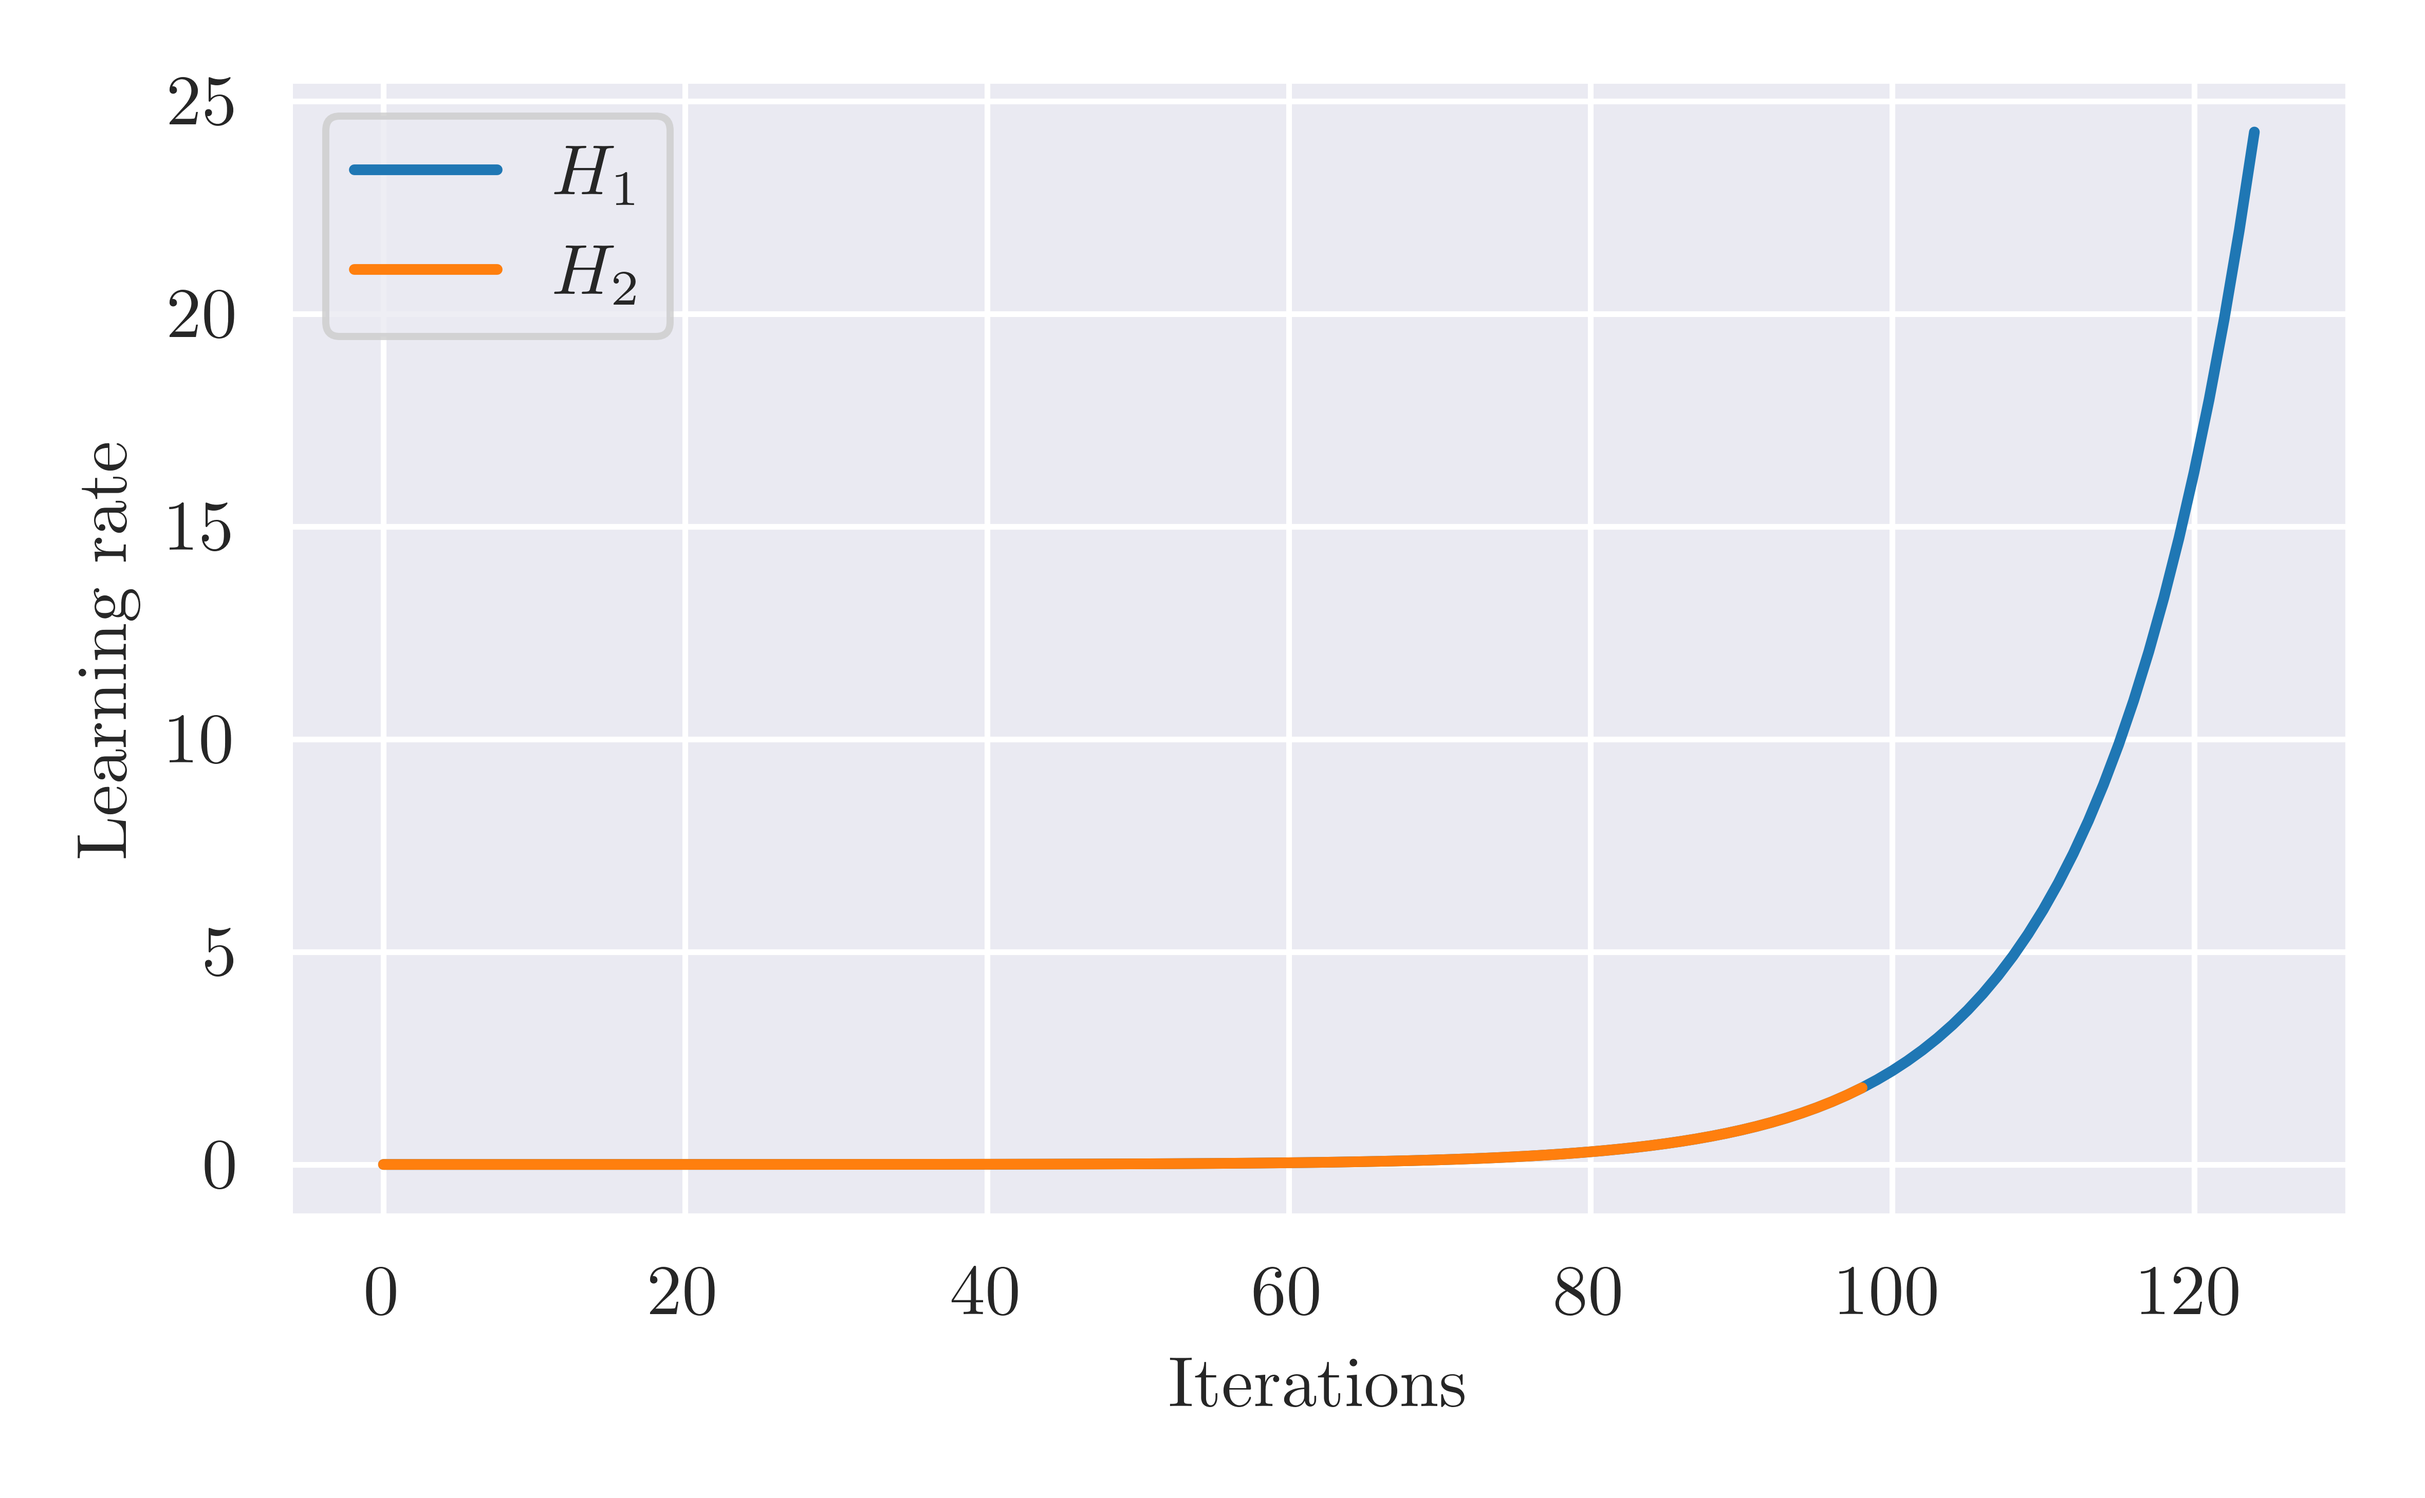
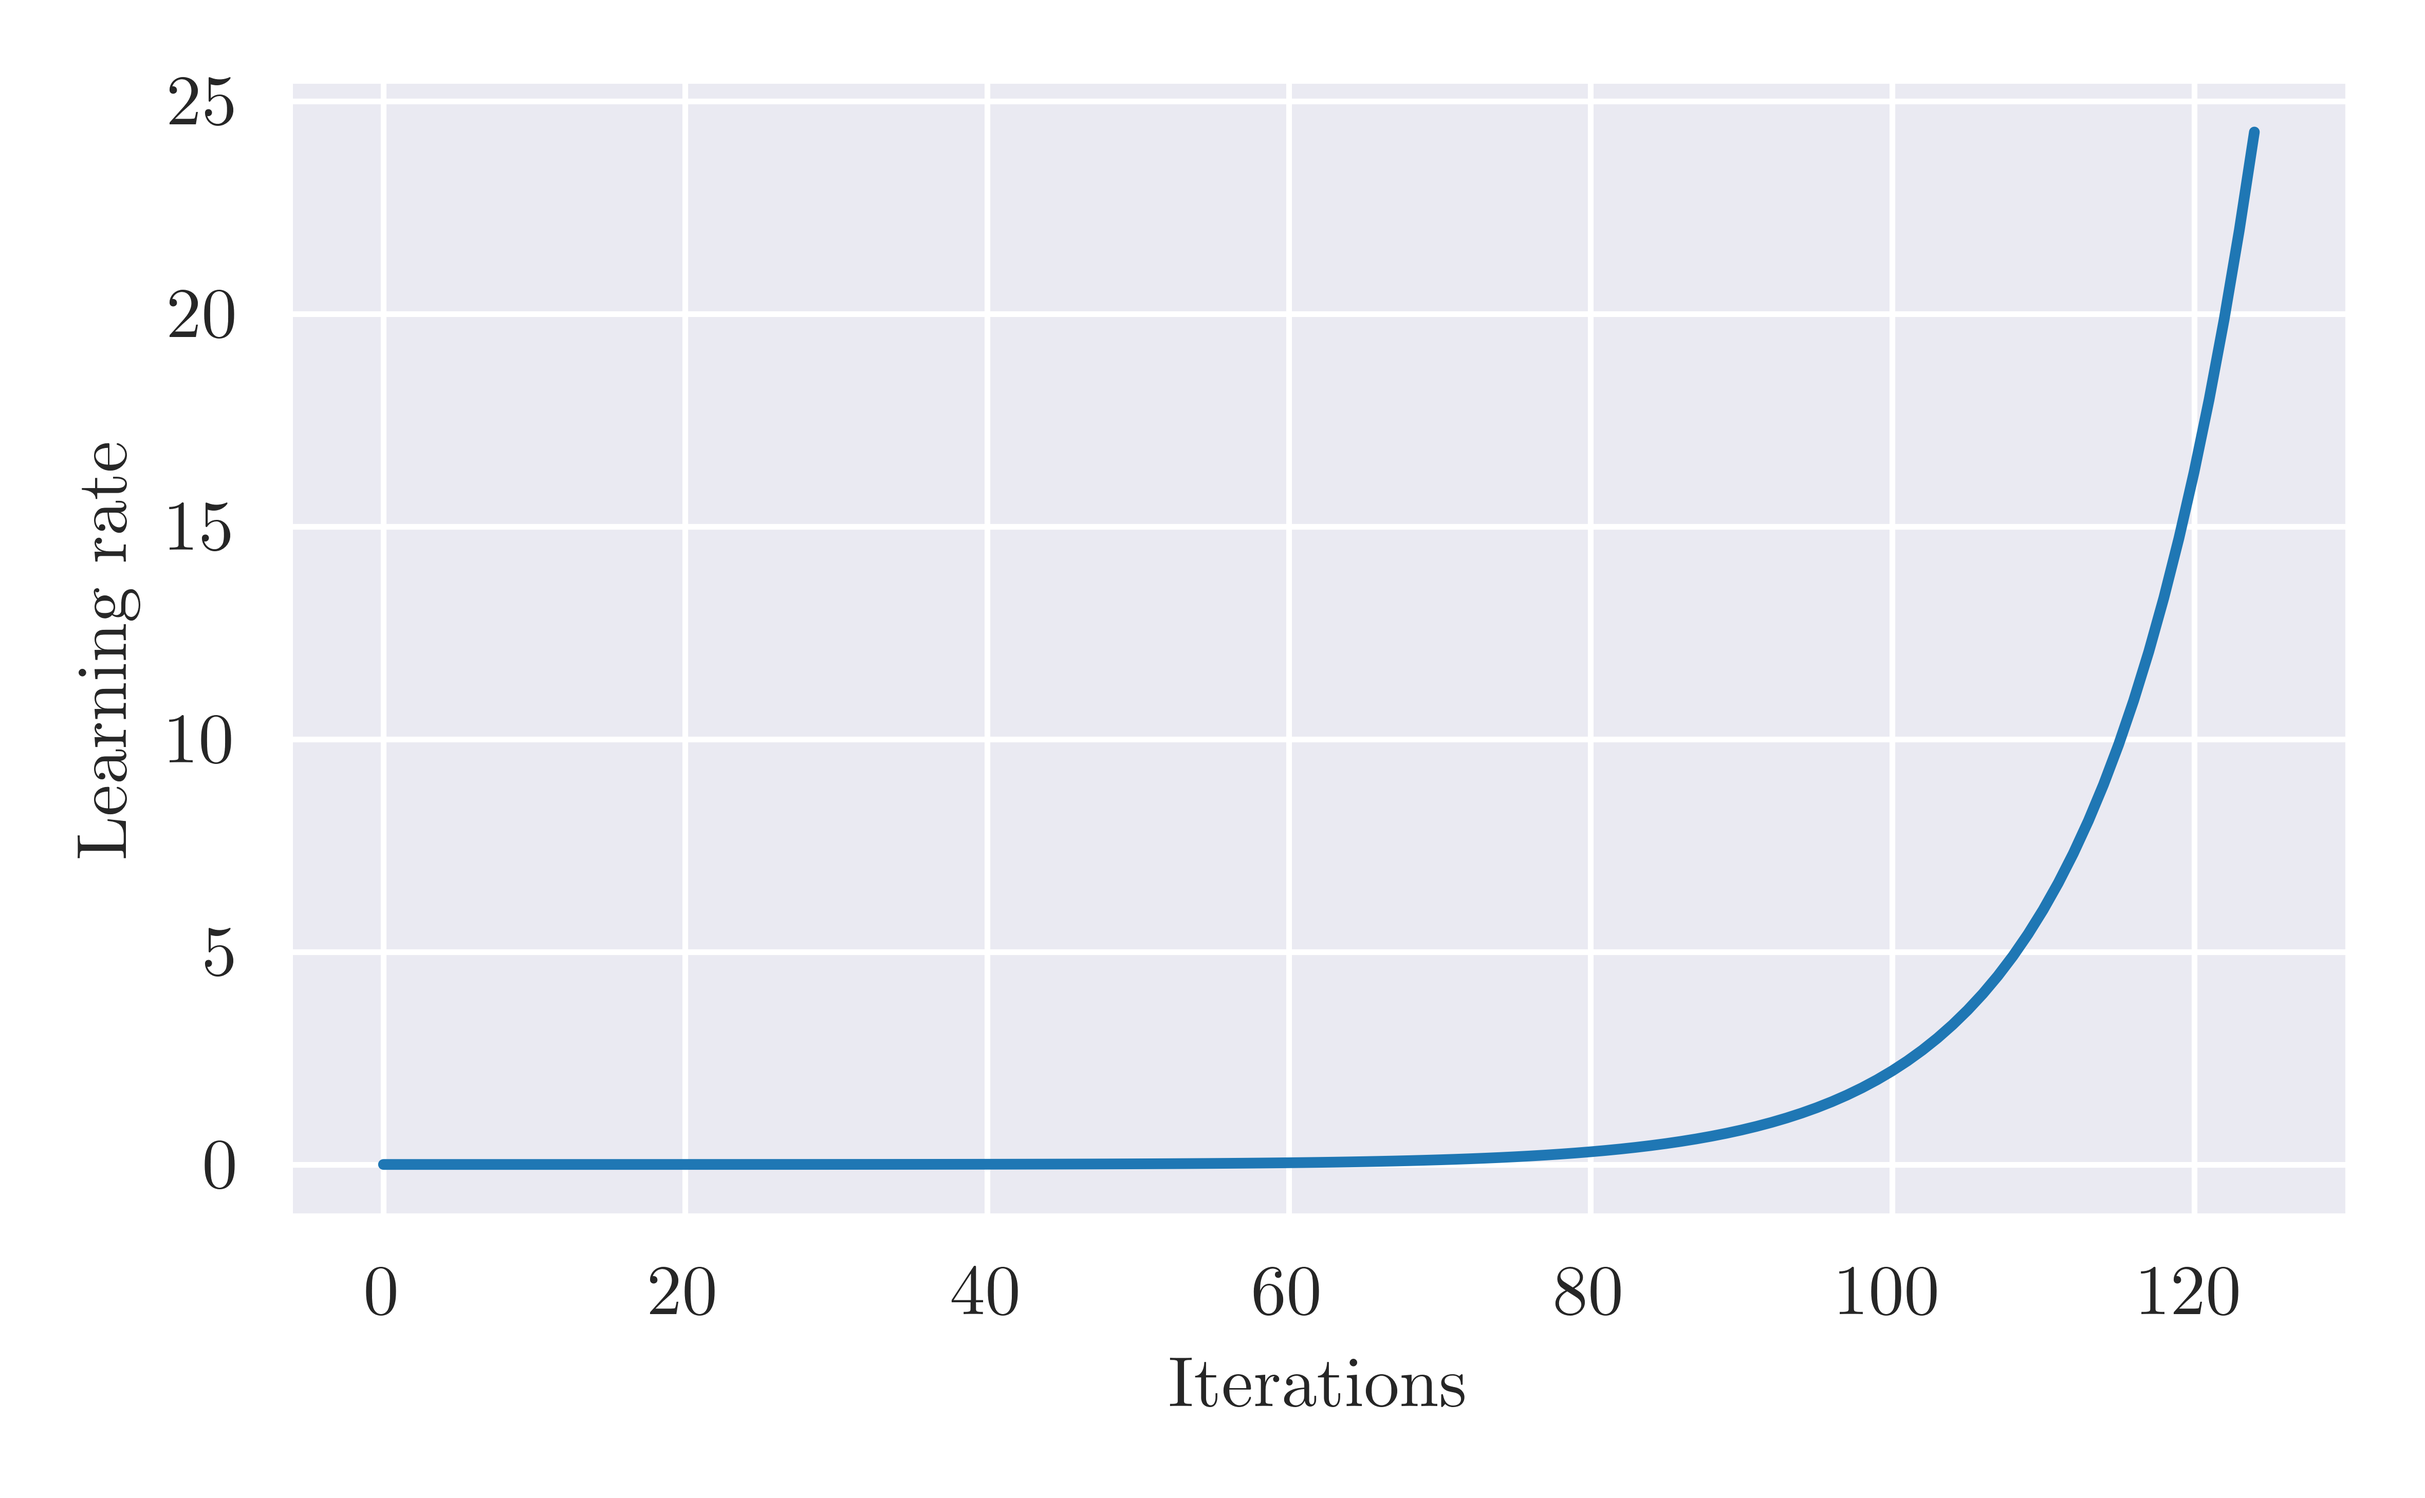
Lets go lets go

Changed region(s): [[0.1246, 0.0624, 0.2804, 0.2497], [0.1558, 0.7178, 0.7788, 0.7802]]

diff --git a/src/analyzer.py b/src/analyzer.py
@@ -99,19 +99,45 @@ def plot_lr_search():
 
     #print(lr)
     #print(lr_A1)
+    sma=1
+    skip=0
+
+    derivatives = [0] * (sma + 1)
+    for i in range(1 + sma, len(lr)):
+        derivative = (loss[i] - loss[i - sma]) / sma
+        derivatives.append(derivative)
+
+    print(min(derivatives), derivatives.index(min(derivatives)), lr[77])
+
+    derivatives2 = [0] * (sma + 1)
+    for i in range(1 + sma, len(lr_A1)):
+        derivative2 = (loss_A1[i] - loss_A1[i - sma]) / sma
+        derivatives2.append(derivative2)
+
+    print(min(derivatives2), derivatives2.index(min(derivatives2)), lr_A1[derivatives2.index(min(derivatives2))])
 
     plt.figure()
-    plt.plot(range(0,len(lr_A1)), lr_A1, label=r'$H_1$')
-    plt.plot(range(0,len(lr)), lr, label=r'$H_2$')
+    plt.ylabel("d/loss")
+    plt.xlabel("learning rate (log scale)")
+    plt.plot(lr[skip:], derivatives[skip:])
+    plt.xscale('log')
+    plt.tight_layout()
+    plt.savefig('results/generative_learning/SGDdLVSlr.png')
+    plt.clf
+
+
+    plt.figure(figsize=[FIGWIDTH/2, FIGHEIGHT])
+    plt.plot(range(0,len(lr_A1)), lr_A1)
+    #plt.plot(range(0,len(lr)), lr, label=r'$H_2$')
     plt.xlabel('Iterations')
     plt.ylabel('Learning rate')
-    plt.legend()
+    #plt.legend()
     plt.tight_layout()
-    plt.savefig('results/generative_learning/SGDitVSloss.png')
+    plt.savefig('results/generative_learning/SGDitVSloss_hs.png')
     #plt.show()
     plt.clf
 
-    plt.figure()
+    plt.figure(figsize=[FIGWIDTH/2, FIGHEIGHT])
     plt.plot(lr_A1, loss_A1, label=r'$H_1$')
     plt.plot(lr, loss, label=r'$H_2$')
     plt.xlabel('Learning rate')
@@ -119,10 +145,10 @@ def plot_lr_search():
     plt.xscale("log")
     plt.legend()
     plt.tight_layout()
-    plt.savefig('results/generative_learning/SGDlrVSloss_exp.png')
+    plt.savefig('results/generative_learning/SGDlrVSloss_exp_SGDitVSloss_hs.png')
     #plt.show()
 
 
-plot_lr_search()
+#plot_lr_search()
 #plot_fraud()
 #plot_multiple_samples()

diff --git a/src/main.py b/src/main.py
@@ -940,7 +940,7 @@ def main():
     number_of_seeds=1
     learningRate=0.1
     ite_steps=10
-    epochs=200
+    epochs=100
     optimizing_method='SGD'
 
     """
@@ -1034,12 +1034,11 @@ def main():
     Generative learning
     """
     ## Remember to save all arrays in case i run it for a real quantum computer, then save.
-    #learning_rate_search(Ham1, ansatz1, 2, p_data1, n_steps=ite_steps, lr=0.1, name=True, optim_method=optimizing_method, plot=False)
-    #learning_rate_search(Ham2, ansatz_gen_dis, epochs, p_data2, n_steps=ite_steps, lr=0.1, name=True, optim_method=optimizing_method, plot=False)
-    learning_rate_search(Ham1, ansatz1, epochs, p_data1, n_steps=ite_steps, lr=0.1, name=True, optim_method=optimizing_method, plot=False)
-
-    #Plot the thing from the article, increase learning rate for each iteration and plot loss- https://towardsdatascience.com/estimating-optimal-learning-rate-for-a-deep-neural-network-ce32f2556ce0
+    #learning_rate_search(Ham2, ansatz_gen_dis, epochs, p_data2, n_steps=ite_steps, lr=0.1, name=False, optim_method=optimizing_method, plot=False)
+    #learning_rate_search(Ham1, ansatz1, epochs, p_data1, n_steps=ite_steps, lr=0.1, name=False, optim_method=optimizing_method, plot=False)
+    
     #Use that learning rate to plot for various optimization methods, rms prop, adam, amsgrad, and sgd, each with different momemntum, maybe 2 or 3 momentums, same color of same thing
+    
     #Then use the generative, learning thing for q1,q2,q3 and q3? With 10 seeds to see that everyone converges
     #Now the same thing with a network, maybe with different layers/nodes
     #Run it again with real computer?

diff --git a/src/simulations.py b/src/simulations.py
@@ -356,8 +356,8 @@ def learning_rate_search(H_operator, ansatz, n_epochs, target_data, n_steps=10, 
         plt.ylabel('Loss')
         plt.show()
     if name:
-        np.save('results/generative_learning/arrays/'+optim_method+'loss_lr'+str(lr)+'m1'+str(m1)+'m2'+str(m2)+'loss_A2', np.array(loss_list))
-        np.save('results/generative_learning/arrays/'+optim_method+'loss_lr'+str(lr)+'m1'+str(m1)+'m2'+str(m2)+'lr_exp_A2', np.array(lr_list))
+        np.save('results/generative_learning/arrays/'+optim_method+'loss_lr'+str(lr)+'m1'+str(m1)+'m2'+str(m2)+'loss'+str(name), np.array(loss_list))
+        np.save('results/generative_learning/arrays/'+optim_method+'loss_lr'+str(lr)+'m1'+str(m1)+'m2'+str(m2)+'lr_exp'+str(name), np.array(lr_list))
         #np.save('results/generative_learning/arrays/'+optim_method+'loss_lr'+str(lr)+'m1'+str(m1)+'m2'+str(m2), np.array(loss_list))
 
 
